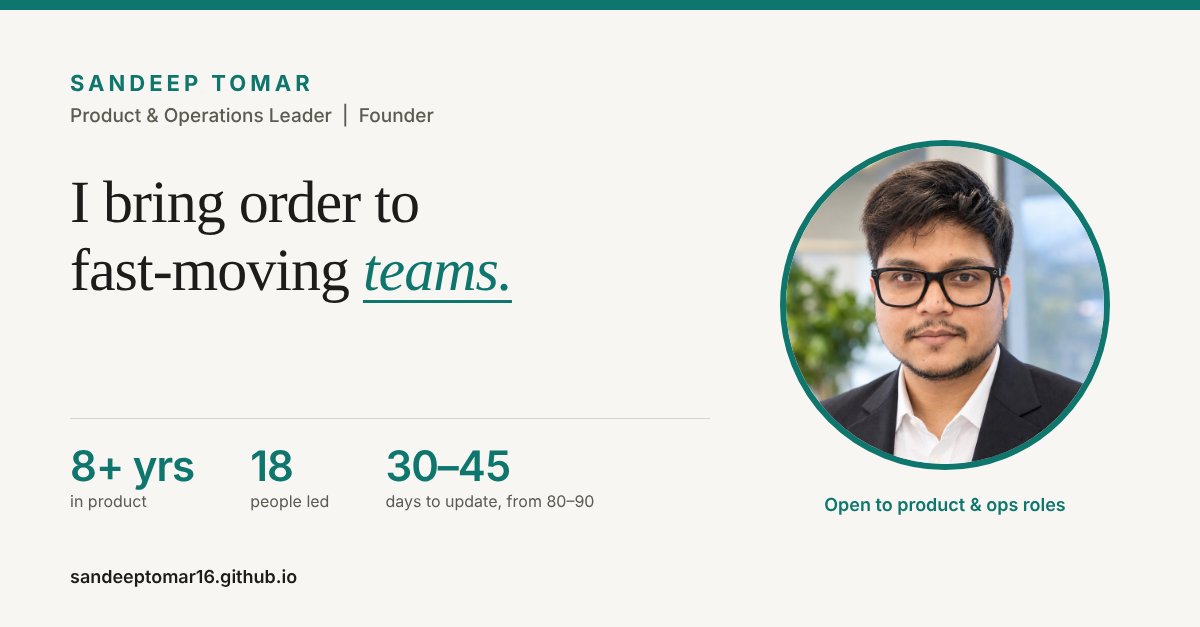
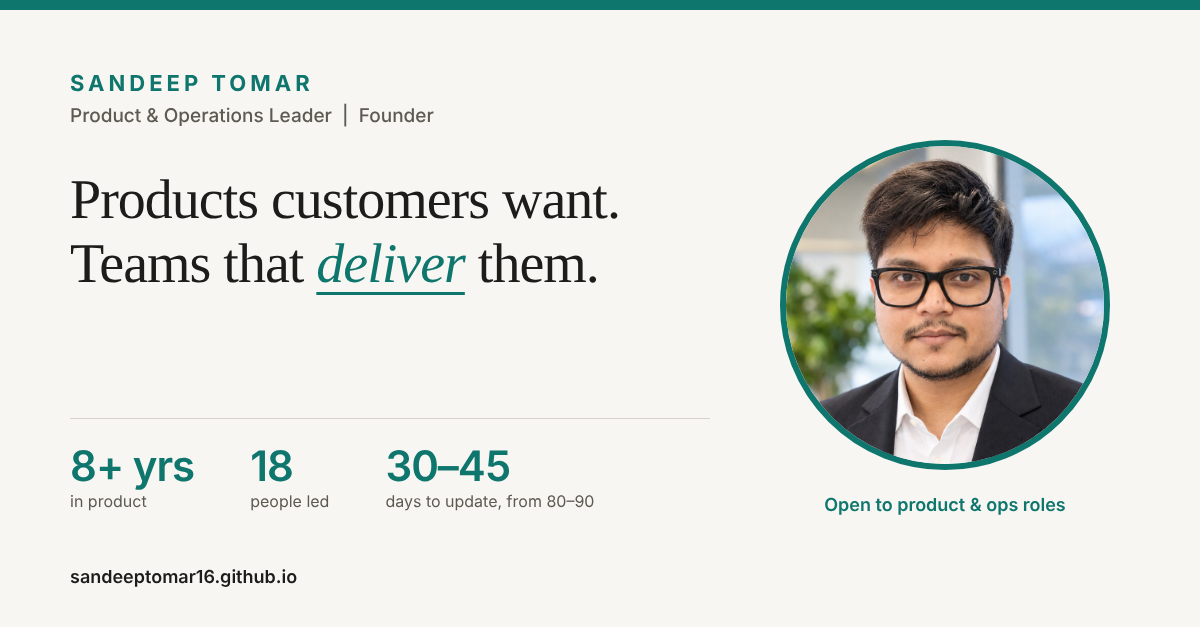
New headline: Products customers want. Teams that deliver them.
Claude-Session: https://claude.ai/code/session_01M5QZ7x4jmS3cZq3iRWp3VZ

Changed region(s): [[0.0617, 0.2727, 0.5242, 0.4848]]

diff --git a/index.html b/index.html
@@ -1,4 +1,4 @@
-<!doctype html><html lang="en"><head><meta charset="utf-8"><meta name="viewport" content="width=device-width,initial-scale=1"><title>Sandeep Tomar | Product and Operations Leader</title><meta name="description" content="I bring order to fast-moving teams. Founder and product and operations leader: 8+ years, teams of 18, EdTech, D2C and Shopify. Case studies inside."><meta property="og:type" content="website"><meta property="og:site_name" content="Sandeep Tomar"><meta property="og:title" content="Sandeep Tomar | Product and Operations Leader"><meta property="og:description" content="I bring order to fast-moving teams. Founder and product and operations leader: 8+ years, teams of 18, EdTech, D2C and Shopify. Case studies inside."><meta property="og:image" content="https://sandeeptomar16.github.io/og-image.png"><meta property="og:image:width" content="1200"><meta property="og:image:height" content="627"><meta property="og:url" content="https://sandeeptomar16.github.io/"><meta name="twitter:card" content="summary_large_image"><meta name="twitter:image" content="https://sandeeptomar16.github.io/og-image.png"><link rel="preconnect" href="https://fonts.googleapis.com"><link rel="preconnect" href="https://fonts.gstatic.com" crossorigin><link href="https://fonts.googleapis.com/css2?family=Inter:wght@400;500;600;700&family=Source+Serif+4:wght@400;600&display=swap" rel="stylesheet"><style>
+<!doctype html><html lang="en"><head><meta charset="utf-8"><meta name="viewport" content="width=device-width,initial-scale=1"><title>Sandeep Tomar | Product and Operations Leader</title><meta name="description" content="Products customers want. Teams that deliver them. Founder and product and operations leader: 8+ years, teams of 18, EdTech, D2C and Shopify. Case studies inside."><meta property="og:type" content="website"><meta property="og:site_name" content="Sandeep Tomar"><meta property="og:title" content="Sandeep Tomar | Product and Operations Leader"><meta property="og:description" content="Products customers want. Teams that deliver them. Founder and product and operations leader: 8+ years, teams of 18, EdTech, D2C and Shopify. Case studies inside."><meta property="og:image" content="https://sandeeptomar16.github.io/og-image.png"><meta property="og:image:width" content="1200"><meta property="og:image:height" content="627"><meta property="og:url" content="https://sandeeptomar16.github.io/"><meta name="twitter:card" content="summary_large_image"><meta name="twitter:image" content="https://sandeeptomar16.github.io/og-image.png"><link rel="preconnect" href="https://fonts.googleapis.com"><link rel="preconnect" href="https://fonts.gstatic.com" crossorigin><link href="https://fonts.googleapis.com/css2?family=Inter:wght@400;500;600;700&family=Source+Serif+4:wght@400;600&display=swap" rel="stylesheet"><style>
 :root{--bg:#faf8f4;--fg:#1c1b19;--muted:#5d5a52;--line:#ddd8cc;--card:#fff;--accent:#0f766e;--accent2:#e9f4f1}
 @media (prefers-color-scheme:dark){:root{--bg:#141412;--fg:#f0eee8;--muted:#a6a396;--line:#2d2c28;--card:#1c1b19;--accent:#4fd1c0;--accent2:#17302d}}
 *{box-sizing:border-box}html{scroll-behavior:smooth}
@@ -64,7 +64,7 @@ footer{border-top:1px solid var(--line);padding:26px 0 44px;color:var(--muted);f
 </style></head><body>
 <header><div class="wrap nav"><b>Sandeep Tomar</b><div><a href="index.html" class=on>Home</a><a href="product.html">What I do</a><a href="projects.html">Work</a><a href="operations.html">Operations</a><a href="about.html">About</a><a href="assets/Sandeep_Tomar_Product_Manager_Resume.pdf">Resume</a><a href="index.html#contact">Contact</a></div></div></header>
 <div class="wrap"><div class="hero"><span class="tag">Open to senior product and operations roles</span><span class="tag">Available within 1 week</span>
-<h1>I bring order to fast-moving teams, and build the products and systems that keep them running.</h1>
+<h1>Products customers want. Teams that deliver them.</h1>
 <p>I'm Sandeep, a founder and product and operations leader. I fix processes, write the SOPs, set up clear communication and KPIs, and turn chaos into a team that ships. I've led teams of up to 18 people plus external experts across content, engineering, marketing and operations. I owned a 57-course EdTech portfolio, founded and ran a consumer marketplace and a Shopify brand, and before product I ran a 60-person team across a 7-ship cruise fleet.</p>
 <a class="btn" href="projects.html">See my work</a><a class="btn alt" href="product.html">What I do</a><a class="btn alt" href="assets/Sandeep_Tomar_Product_Manager_Resume.pdf">Download resume</a></div>
 <section><div class="k" style="margin-bottom:14px">Scope at a glance</div><div class="grid">
